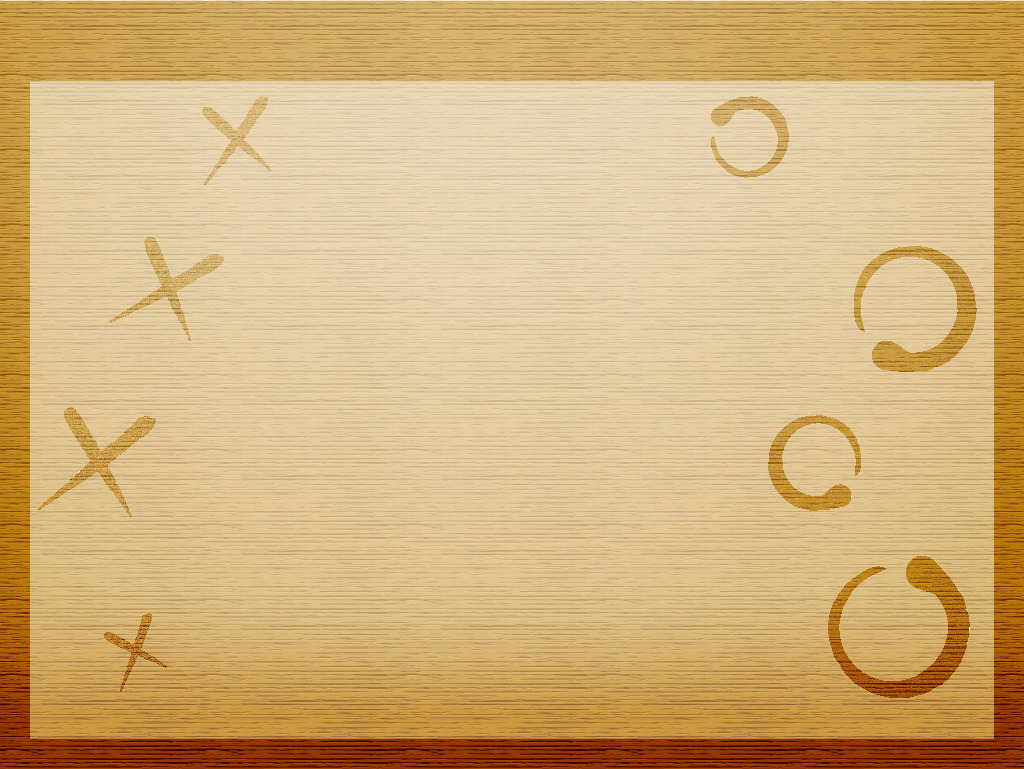
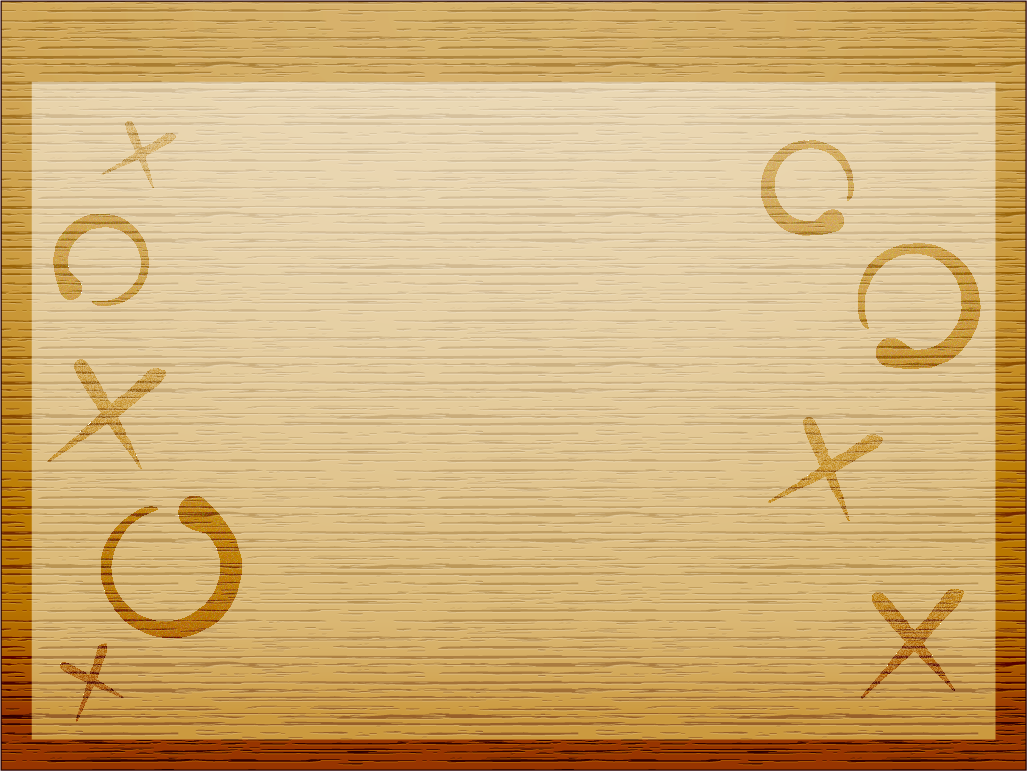
Tic tac toe visual tweaks, new turn indicator flow

diff --git a/playtell-ducati/view controllers/PTTictactoeViewController.m b/playtell-ducati/view controllers/PTTictactoeViewController.m
@@ -308,24 +308,51 @@
 
 - (void) createTurnIndicators:(bool)i_am_x
 {
-    CGRect opponent = CGRectMake(150, 15, 100, 100);
-    CGRect you = CGRectMake(750, 15, 100, 100);
-
-    UIImageView* youIndicator = [[UIImageView alloc] initWithFrame:you];
-    UIImageView* opponentIndicator = [[UIImageView alloc] initWithFrame:opponent];
+    CGRect opponentPlaceholderX = CGRectMake(254, 19, 35, 45);
+    CGRect youPlaceholderX = CGRectMake(733, 19, 35, 45);
+    CGRect opponentPlaceholderO = CGRectMake(249, 21.25, 39, 41);
+    CGRect opponentO = CGRectMake(250, 14, 47, 55);
+    CGRect opponentX = CGRectMake(250, 11.25, 43, 59);
+    CGRect youPlaceholderO = CGRectMake(730, 19, 39, 41);
+    CGRect youO = CGRectMake(725, 15, 47, 55);
+    CGRect youX = CGRectMake(728, 10, 43, 59);
     
     if (!i_am_x) {
+        UIImageView* youIndicator = [[UIImageView alloc] initWithFrame:youO];
+        UIImageView* opponentIndicator = [[UIImageView alloc] initWithFrame:opponentX];
+        UIImageView* youPlaceholder = [[UIImageView alloc] initWithFrame:youPlaceholderO];
+        UIImageView* opponentPlaceholder = [[UIImageView alloc] initWithFrame:opponentPlaceholderX];
+        
         youIndicator.image = [UIImage imageNamed:@"o-turn.png"];                                                    
         opponentIndicator.image = [UIImage imageNamed:@"x-turn.png"];
+        youPlaceholder.image = [UIImage imageNamed:@"o-placeholder"];
+        opponentPlaceholder.image = [UIImage imageNamed:@"x-placeholder"];
+        
+        [self.view addSubview:youPlaceholder];
+        [self.view addSubview:opponentPlaceholder];
+        [self.view addSubview:youIndicator];
+        [self.view addSubview:opponentIndicator];
+        
+        self->turn_indicators = [[NSArray alloc] initWithObjects:youIndicator, opponentIndicator, youPlaceholder, opponentPlaceholder, nil];
     }
     else {
+        UIImageView* youIndicator = [[UIImageView alloc] initWithFrame:youX];
+        UIImageView* opponentIndicator = [[UIImageView alloc] initWithFrame:opponentO];
+        UIImageView* youPlaceholder = [[UIImageView alloc] initWithFrame:youPlaceholderX];
+        UIImageView* opponentPlaceholder = [[UIImageView alloc] initWithFrame:opponentPlaceholderO];
+        
         youIndicator.image = [UIImage imageNamed:@"x-turn.png"];
         opponentIndicator.image = [UIImage imageNamed:@"o-turn.png"];
+        youPlaceholder.image = [UIImage imageNamed:@"x-placeholder"];
+        opponentPlaceholder.image = [UIImage imageNamed:@"o-placeholder"];
+        
+        [self.view addSubview:youPlaceholder];
+        [self.view addSubview:opponentPlaceholder];
+        [self.view addSubview:youIndicator];
+        [self.view addSubview:opponentIndicator];
+        
+        self->turn_indicators = [[NSArray alloc] initWithObjects:youIndicator, opponentIndicator, youPlaceholder, opponentPlaceholder, nil];
     }
-    
-    [self.view addSubview:youIndicator];
-    [self.view addSubview:opponentIndicator];
-    self->turn_indicators = [[NSArray alloc] initWithObjects:youIndicator, opponentIndicator, nil];
 }
 
 - (void) updateTurnIndicators:(BOOL)myTurn
@@ -337,9 +364,31 @@
     
     if (myTurn) {
         youIndicator.hidden = NO;
+        //animate it
+        [UIView beginAnimations:@"bounce" context:nil];
+        [UIView setAnimationRepeatCount:2];
+        [UIView setAnimationRepeatAutoreverses:YES];
+        youIndicator.center = CGPointMake(youIndicator.center.x, youIndicator.center.y + 10);
+        [UIView commitAnimations];
+        [UIView beginAnimations:@"bounce" context:nil];
+        [UIView setAnimationRepeatCount:2];
+        [UIView setAnimationRepeatAutoreverses:YES];
+        youIndicator.center = CGPointMake(youIndicator.center.x, youIndicator.center.y - 10);
+        [UIView commitAnimations];
     }
     else {
         opponentIndicator.hidden = NO;
+        //animate it!
+        [UIView beginAnimations:@"bounce" context:nil];
+        [UIView setAnimationRepeatCount:2];
+        [UIView setAnimationRepeatAutoreverses:YES];
+        opponentIndicator.center = CGPointMake(opponentIndicator.center.x, opponentIndicator.center.y + 10);
+        [UIView commitAnimations];
+        [UIView beginAnimations:@"bounce" context:nil];
+        [UIView setAnimationRepeatCount:2];
+        [UIView setAnimationRepeatAutoreverses:YES];
+        opponentIndicator.center = CGPointMake(opponentIndicator.center.x, opponentIndicator.center.y - 10);
+        [UIView commitAnimations];
     }
 }
 
@@ -493,7 +542,6 @@
 #endif
     [self beginSound:(id)[NSNumber numberWithInt:LOSS_SOUND]];
     [self initGameVisually];
-
 }
 
 // ## Tictactoe methods start ##
@@ -639,8 +687,6 @@
 
 - (void) enableBoard {
     self->board_enabled = YES;
-    //flip the board over, enable the buttons
-    [self updateTurnIndicators:YES];
     
     [UIView transitionWithView:self.board
                       duration:0.5f
@@ -654,6 +700,9 @@
                         [self reAddButtons];
                         [self reAddToBoard:YES];
                     }];
+    
+    //flip the board over, enable the buttons
+    [self updateTurnIndicators:YES];
 }
 
 //Client-side place piece API support

diff --git a/playtell-ducati/urban airship/UI/Default/Inbox/Classes/Shared/UAInboxMessageListController.m b/playtell-ducati/urban airship/UI/Default/Inbox/Classes/Shared/UAInboxMessageListController.m
@@ -189,7 +189,7 @@
     self.messageTable = nil;
     [selectedIndexPathsForEditing removeAllObjects];
     RELEASE_SAFELY(selectedIndexPathsForEditing);
-    RELEASE_SAFELY(setOfUnreadMessagesInSelection);
+//    RELEASE_SAFELY(setOfUnreadMess  agesInSelection);
     RELEASE_SAFELY(deleteItem);
     RELEASE_SAFELY(markAsReadButtonItem);
 }
